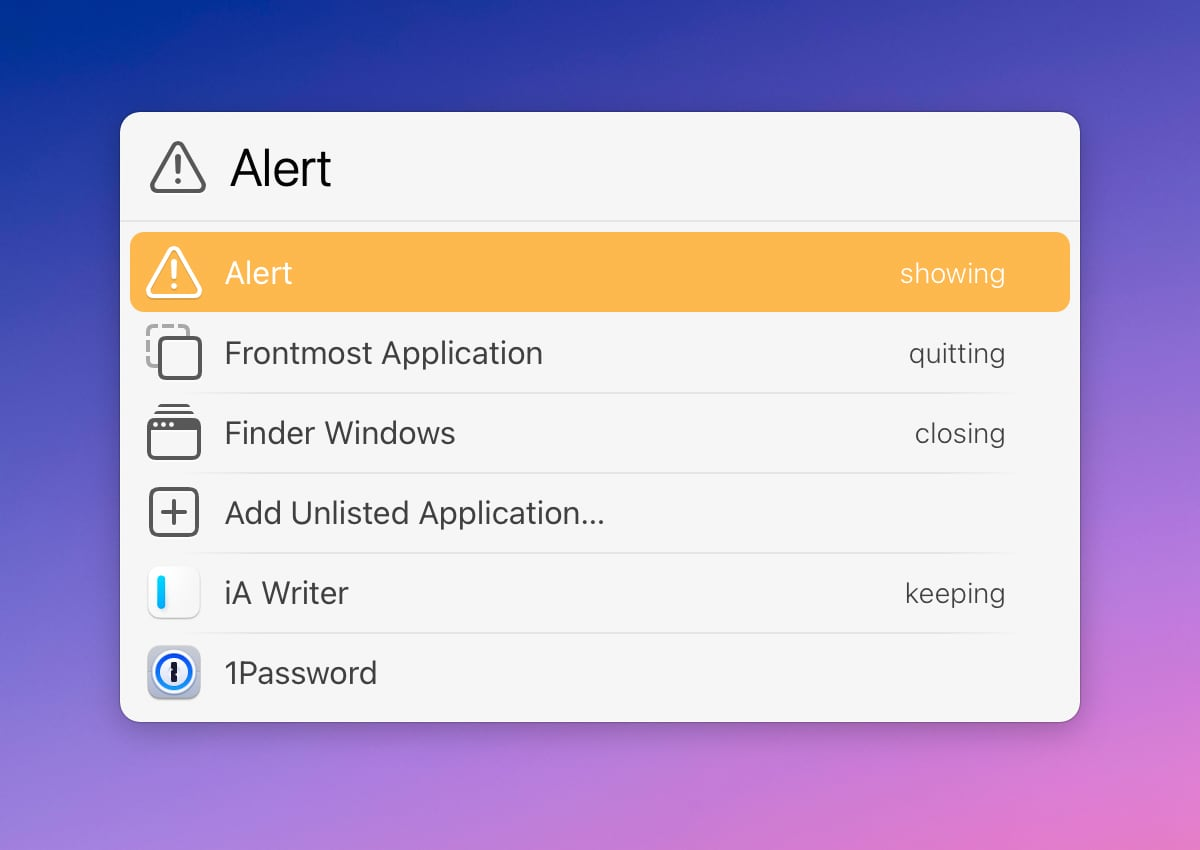
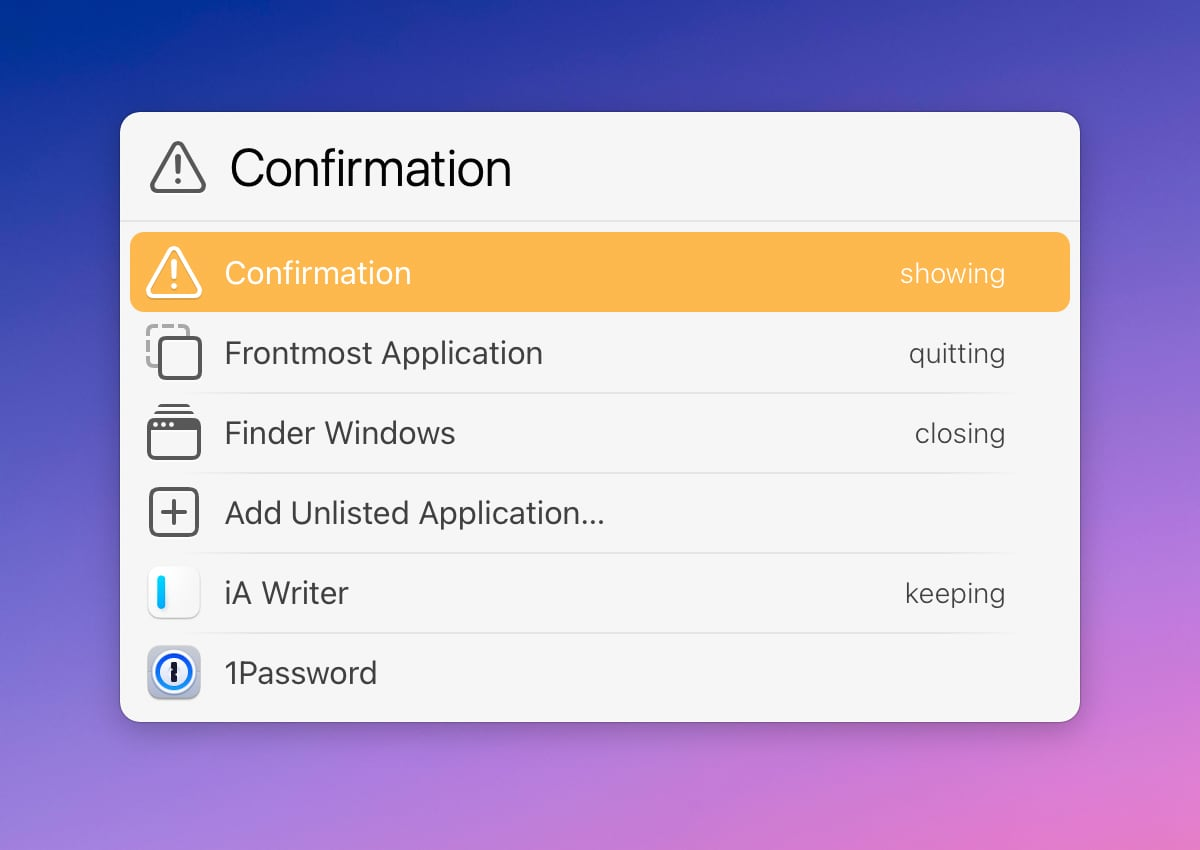
Quit Applications by Context 2.0.3
- removing unnecessary subtitles
- rewording "alert" to "confirmation"
- changing separator for parsing the output from the Swift script in JS

Changed region(s): [[0.185, 0.1529, 0.4317, 0.2447], [0.185, 0.3059, 0.3392, 0.3365]]

diff --git a/Quit-Applications/QuitApplications.lbaction/Contents/Scripts/default.js b/Quit-Applications/QuitApplications.lbaction/Contents/Scripts/default.js
@@ -52,7 +52,6 @@ function run() {
   }
 
   // Show Contexts
-  // TODO: make more flexible
   const names = File.readText(textFilePath).split('\n');
   return names
     .filter((item) => !item.startsWith('--') && item)
@@ -110,7 +109,7 @@ function showOptions() {
 
   const menuItems = [
     {
-      title: 'Alert'.localize(),
+      title: 'Confirmation'.localize(),
       subtitle: 'Show alert before quitting.'.localize(),
       action: 'toggleAlertOption',
       icon: 'alertTemplate',
@@ -121,7 +120,6 @@ function showOptions() {
     },
     {
       title: 'Frontmost Application'.localize(),
-      subtitle: "Don't quit the frontmost application.".localize(),
       action: 'toggleCurrentOption',
       icon: 'currentTemplate',
       label:
@@ -131,7 +129,6 @@ function showOptions() {
     },
     {
       title: 'Finder Windows'.localize(),
-      subtitle: 'Keep Finder Windows.'.localize(),
       action: 'toggleFinderWindowsOption',
       icon: 'windowStackTemplate',
       label:
@@ -141,10 +138,8 @@ function showOptions() {
     },
     {
       title: 'Add Unlisted Application…'.localize(),
-      subtitle: 'Add application missing in this list.'.localize(),
       icon: 'addTemplate',
       action: 'addApplication',
-      // actionRunsInBackground: true,
     },
   ];
 
@@ -160,7 +155,6 @@ function showOptions() {
           ...acc.excludedApps,
           {
             title,
-            subtitle: title + ' will keep running'.localize(),
             path: item.path,
             icon: item.id,
             action: 'toggleExclude',
@@ -350,7 +344,7 @@ function showQuitConfirmationAlert(exclusions) {
     listOnly
   )
     .trim()
-    .split('|');
+    .split('\n');
 
   const finderWindowCount = parseInt(finderWindowCountStr);
 
@@ -391,13 +385,15 @@ function quitApplications(exclusions) {
   const { commandArray, keepCurrentString, keepFinderWindowsOption, listOnly } =
     prepareQuitCommand(exclusions, false);
 
-  LaunchBar.execute(
+  const result = LaunchBar.execute(
     ...commandArray,
     exclusions.join(','),
     keepCurrentString,
     keepFinderWindowsOption,
     listOnly
   );
+
+  LaunchBar.log(result); // nonTerminatedApps (if exists), appsToQuit, finderWindowCount
 }
 
 // MARK: - Helper Functions

diff --git a/Quit-Applications/QuitApplications.lbaction/Contents/Scripts/quitApplications.swift b/Quit-Applications/QuitApplications.lbaction/Contents/Scripts/quitApplications.swift
@@ -133,7 +133,6 @@ let manager = QuitApplicationsManager(
     keepFinderWindows: keepFinderWindows
 )
 
-// Store the apps we're going to quit
 let appsToQuit = manager.getRunningApps()
 let result = manager.quitApplications(listOnly: listOnly)
 
@@ -145,8 +144,5 @@ if !listOnly {
     }
 }
 
-let output = [
-    result.appsToQuit.joined(separator: ", "),
-    String(result.finderWindowCount)
-].joined(separator: "|")
-print(output) 
+print(result.appsToQuit.joined(separator: ", "))
+print(result.finderWindowCount)
